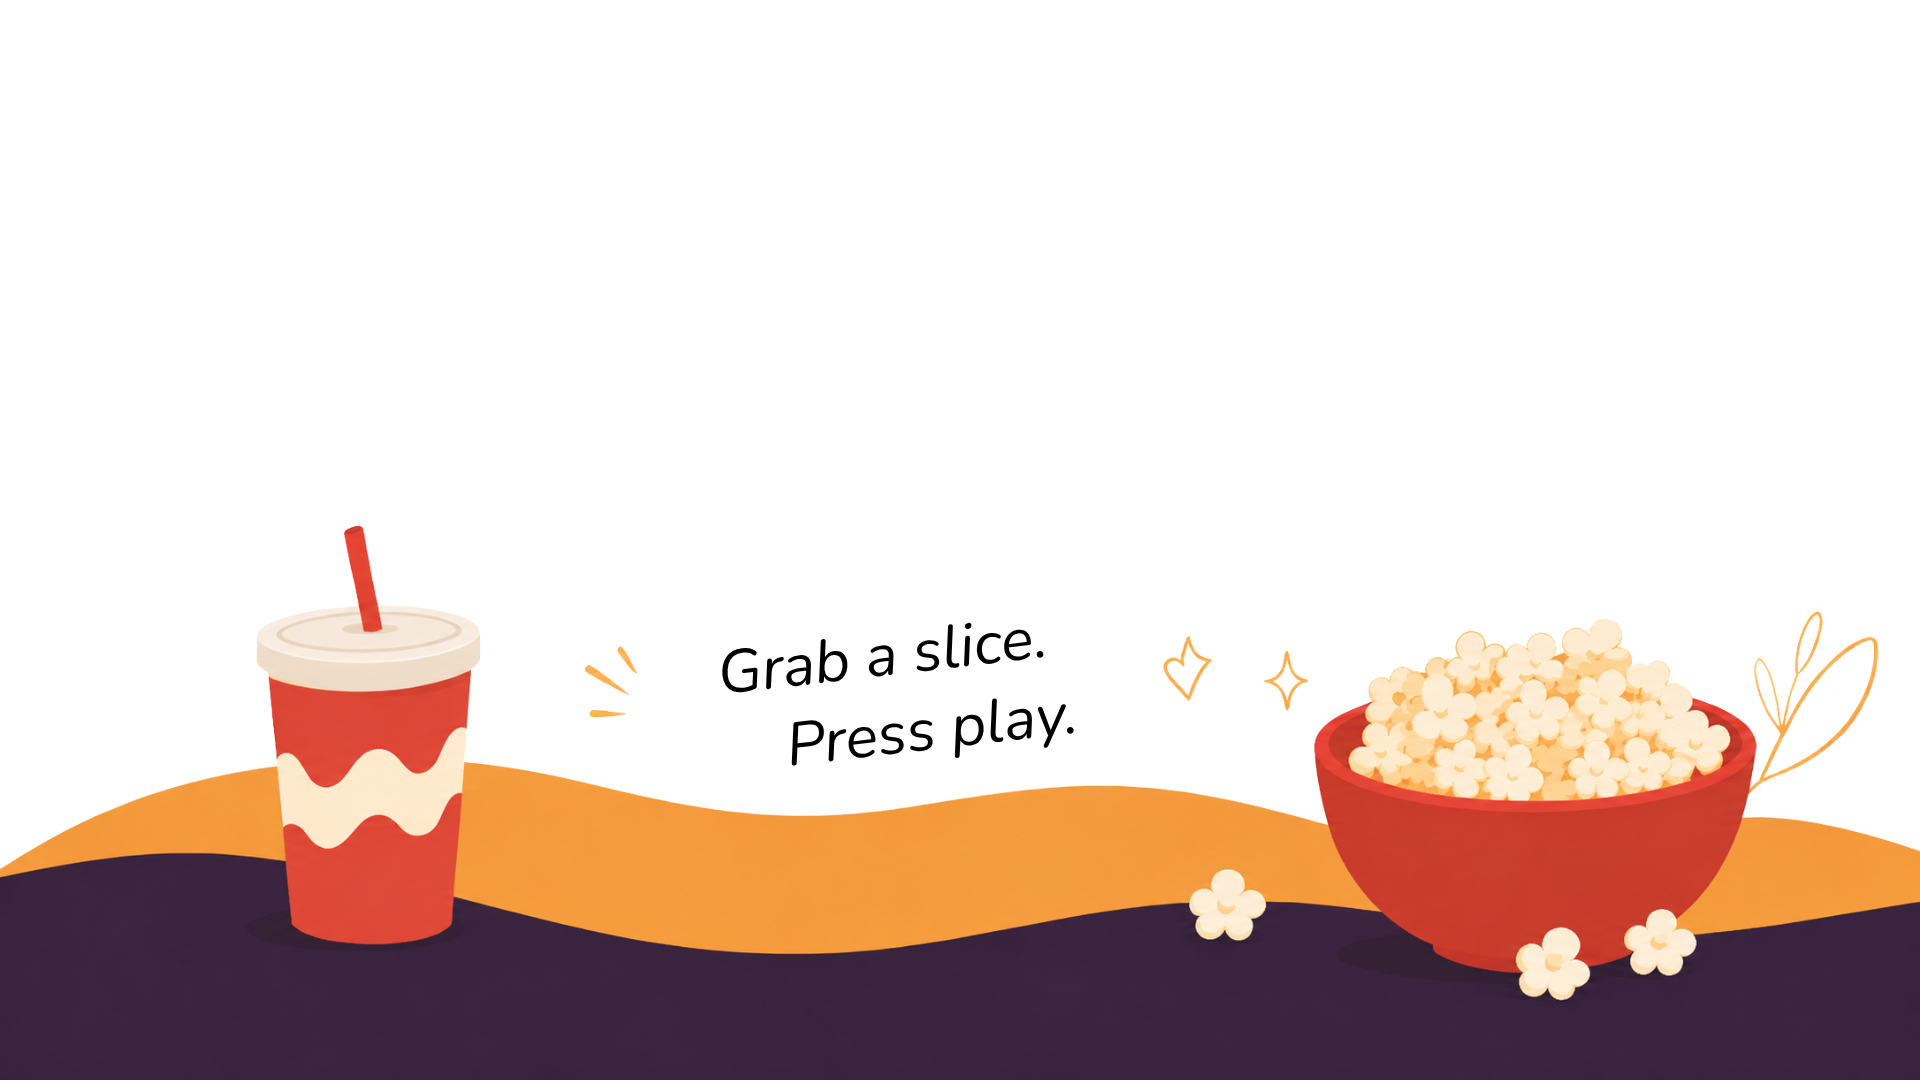
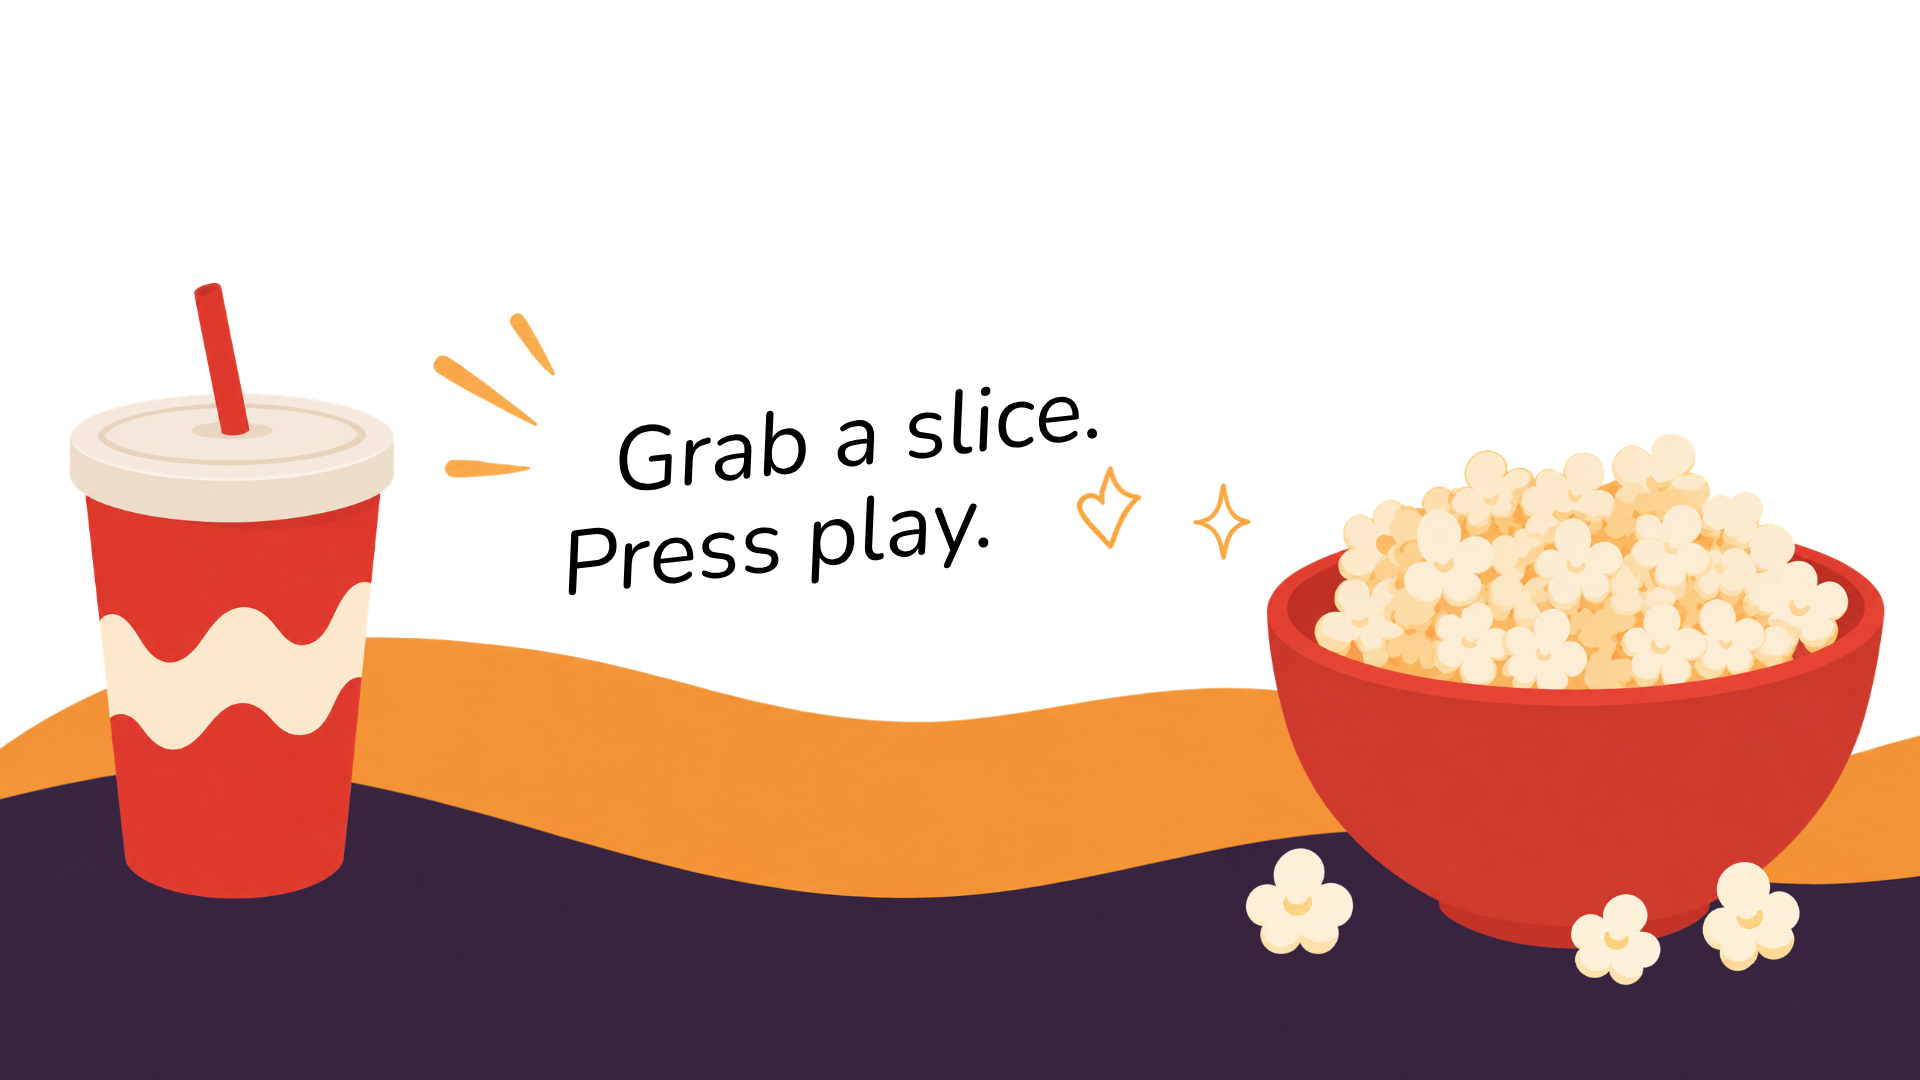
Fix bottom bar

diff --git a/styles.css b/styles.css
@@ -806,11 +806,11 @@ label {
 }
 
 .home-bottom-art {
-  position: absolute;
+  position: fixed;
   left: 50%;
-  bottom: 0;
+  bottom: calc(env(safe-area-inset-bottom) * -1);
   z-index: 0;
-  width: 100%;
+  width: min(100vw, 720px);
   height: auto;
   max-width: none;
   display: block;

diff --git a/sw.js b/sw.js
@@ -1,4 +1,4 @@
-const CACHE_NAME = "pizza-movie-night-v130";
+const CACHE_NAME = "pizza-movie-night-v131";
 const ASSETS = [
   "./",
   "./index.html",